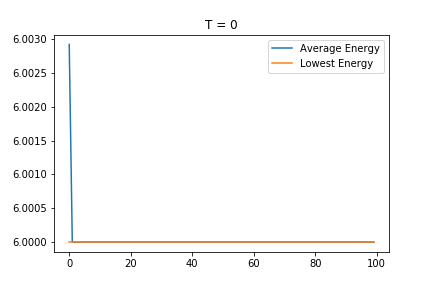
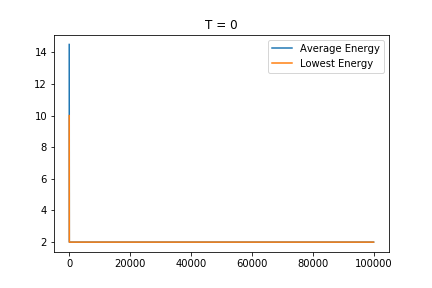
changed from arrays to integer calculation (speed up?)

diff --git a/necklace_model.py b/necklace_model.py
@@ -29,33 +29,48 @@ class Necklace:
         self.__lastPos1 = 0
         self.__lastPos2 = 0
 
-        self._sites = np.zeros(n*m,dtype=int)  # Contains ring sites the first m elements and then the connected graphs
-        self._sites[0:int((m*n)/2)] = np.array([1]*int((m*n)/2))  # set the first elements to class one
+        # binary representations of ring and sites
+        self._ring = 0
+        self._ext = 0
 
-        # shuffle the array to have random initialization
+        # seed the random generator
         if SEED > 0:
             np.random.seed(SEED)
-        self._sites = np.random.permutation(self._sites)
+
+        self.shuffle_state()
 
     def shuffle_state(self):
         """
         Shuffles the state of the necklace randomly.
         """
-        self._sites = np.random.permutation(self._sites)
+        # set the classes of the nodes
+        a = []
+        while len(a) < (self.__m*self.__n/2):
+            x = np.random.randint(0,self.__m*self.__n)
+            if x not in a:
+                a.append(x)
+
+        for x in a:
+            if x < int(self.__n * self.__m / 2):
+                self._ring ^= 1 << x
+            if x >= int(self.__n * self.__m / 2):
+                self._ext ^= 1 << (x - int(self.__n * self.__m / 2))
 
     def get_energy(self):
         """
         Faster method for getting the energy
         :return: Energy of the current necklace setup
         """
-        # Ring connections
-        ring = self._sites[0:self.__m]
-        #shifted_ring = np.roll(ring,1) # Roll is somehow really slow
-        shifted_ring = np.concatenate([ring[-1:],ring[:-1]])
-        energy = ring.shape[0] - np.equal(ring,shifted_ring).sum()
-        # External connections
-        ext = self._sites[self.__m:self._sites.shape[0]]
-        energy += ring.shape[0] - np.equal(ring,ext).sum()
+
+        # connection of ring with external
+        ext_energy = bin(self._ring ^ self._ext).count('1')
+        # connections in the ring
+        ring_string = bin(self._ring)[2:].zfill(self.__m)
+        shift_string = ring_string[-1] + ring_string[:-1]
+        shifted_ring = int(shift_string,2)
+        ring_energy = bin(self._ring ^ shifted_ring).count('1')
+
+        energy = ext_energy + ring_energy
         return energy
 
     def pair_exchange_random(self):
@@ -63,31 +78,53 @@ class Necklace:
         Exchanges two randomly chosen nodes in the necklace.
         :return: pos1,pos2 / Positions of the two exchanged notes
         """
+
+        # Choose first node for random exchange
         pos1 = np.random.randint(0,int(self.__m*self.__n))
-        pos2 = np.random.randint(0,int(self.__m*self.__n))
+        if pos1 >= int(self.__m*self.__n/2):
+            val_pos1 = (1 << pos1-int(self.__m*self.__n/2)) & self._ext
+            # Swap to other class
+            self._ext = self._ext ^ (1 << pos1-int(self.__m*self.__n/2))
+        else:
+            val_pos1 = (1 << pos1) & self._ring
+            # Swap to other class
+            self._ring = self._ring ^ (1 << pos1)
 
+        if val_pos1 > 0: val_pos1 = 1
 
-        #Both nodes should have different classes
-        while self._sites[pos1] == self._sites[pos2]:
+        # choose other node until it has another class
+        while True:
             pos2 = np.random.randint(0,int(self.__m*self.__n))
-        # Swap the classes
-        temp = self._sites[pos1]
-        self._sites[pos1] = self._sites[pos2]
-        self._sites[pos2] = temp
+            if pos1 == pos2:
+                continue
 
+            #if it is a position in external
+            if pos2 >= int(self.__m * self.__n / 2):
+                #get value of that
+                val_pos2 = (1 << pos2 - int(self.__m * self.__n / 2)) & self._ext
+                if val_pos2 > 0: val_pos2 = 1
+                if val_pos1 != val_pos2: #If two different classes
+                    # Swap to other class
+                    self._ext = self._ext ^ (1 << pos2 - int(self.__m * self.__n / 2))
+                    break
+
+            else:
+                val_pos2 = (1 << pos2) & self._ring
+                if val_pos2 > 0: val_pos2 = 1
+                if val_pos1 != val_pos2:
+                    self._ring = self._ring ^ (1 << pos2)
+                    break
+
+        #Store the last two positions of swapping
         self.__lastPos1 = pos1
         self.__lastPos2 = pos2
-
-        return pos1,pos2
 
     def undo_random_exchange(self):
         """
         Undoes the previous random exchange
         :return:
         """
-        temp = self._sites[self.__lastPos1]
-        self._sites[self.__lastPos1] = self._sites[self.__lastPos2]
-        self._sites[self.__lastPos2] = temp
+        self.pair_exchange(self.__lastPos1,self.__lastPos2)
 
     def pair_exchange(self,pos1,pos2):
         """
@@ -95,11 +132,23 @@ class Necklace:
         :param pos1: position of first node
         :param pos2: position of second noce
         """
-        temp = self._sites[pos1]
-        self._sites[pos1] = self._sites[pos2]
-        self._sites[pos2] = temp
+        if pos1 >= int(self.__m * self.__n / 2):
+            self._ext = self._ext ^ (1 << pos1 - int(self.__m * self.__n / 2))
+        else:
+            self._ring = self._ring ^ (1 << pos1)
 
+        if pos2 >= int(self.__m * self.__n / 2):
+            self._ext = self._ext ^ (1 << pos2 - int(self.__m * self.__n / 2))
+        else:
+            self._ring = self._ring ^ (1 << pos2)
 
+    def print(self):
+        """
+        Prints the current config of the necklace
+        :return:
+        """
+        print('ring: ' + bin(self._ring)[2:].zfill(self.__m))
+        print('ext:  ' + bin(self._ext)[2:].zfill(self.__m))
 
     def draw(self,filename,SEED=42):
         """
@@ -129,3 +178,4 @@ class Necklace:
         plt.text(0,0,'Energy: ' + str(self.get_energy()))
         plt.savefig(filename)
         plt.close()
+

diff --git a/main.py b/main.py
@@ -2,15 +2,12 @@ from necklace_model import Necklace
 from simulated_annealing import Annealer
 import numpy as np
 import matplotlib.pyplot as plt
-import networkx as nx
 
 def necklace_test():
-    MyNecklace = Necklace(20,2)
-    N = 1
-    n = 100000
-    for i in range(100000):
-        MyNecklace.pair_exchange_random()
-
+    n = 5
+    MyNecklace = Necklace(n,2)
+    MyNecklace.print()
+    print(MyNecklace.get_energy())
 
 def annealer_test():
     MyNecklace = Necklace(20,2)
